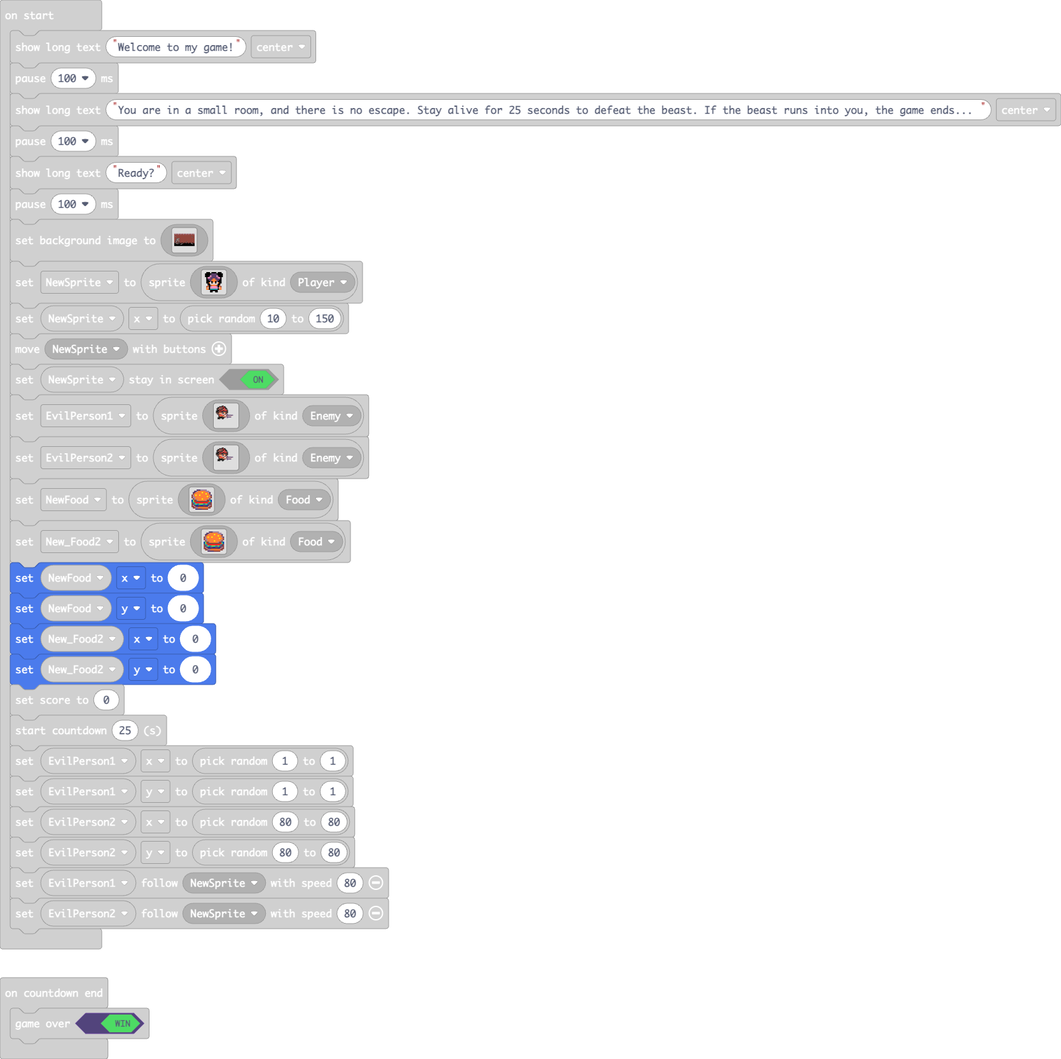
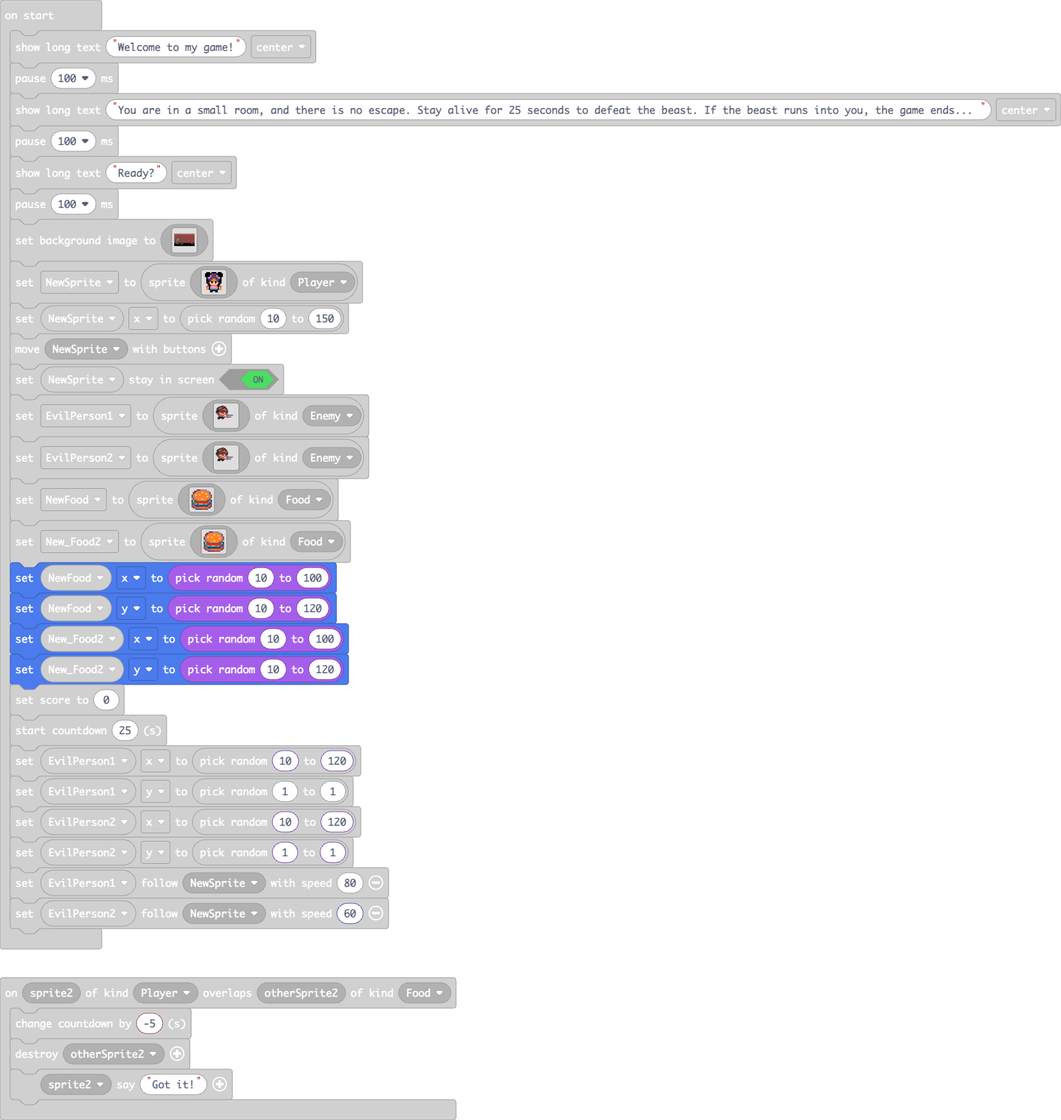
Update pxt.json, main.blocks, main.ts, main.py

Changed region(s): [[0.0, 0.0312, 1.0, 1.0]]

diff --git a/main.ts b/main.ts
@@ -1,13 +1,13 @@
-sprites.onOverlap(SpriteKind.Enemy, SpriteKind.Player, function (sprite2, otherSprite2) {
+sprites.onOverlap(SpriteKind.Enemy, SpriteKind.Player, function on_on_overlap(sprite2: Sprite, otherSprite2: Sprite) {
     game.gameOver(false)
 })
-info.onCountdownEnd(function () {
+info.onCountdownEnd(function on_countdown_end() {
     game.gameOver(true)
 })
-sprites.onOverlap(SpriteKind.Player, SpriteKind.Food, function (sprite2, otherSprite2) {
-    info.changeCountdownBy(-10)
-    sprites.destroy(otherSprite2)
-    sprite2.sayText("Got it!")
+sprites.onOverlap(SpriteKind.Player, SpriteKind.Food, function on_on_overlap2(sprite22: Sprite, otherSprite22: Sprite) {
+    info.changeCountdownBy(-5)
+    sprites.destroy(otherSprite22)
+    sprite22.sayText("Got it!")
 })
 game.showLongText("Welcome to my game!", DialogLayout.Center)
 pause(100)
@@ -17,117 +17,127 @@ game.showLongText("Ready?", DialogLayout.Center)
 pause(100)
 scene.setBackgroundImage(img`
     beeeeebbbbbbbbbbbebbbeeeebbbbbbbbbebbbbbbbeeeeebbbbbbbbbbbebbbeeeeebbbbbbbbebbbbbbbeeeeebbbbbbbbbbbbebbbeeeebbbbbbbbebbbbbbbeeeeebbbbbbbbbbbbebbbeeeebbbbbbbbebb
-    eeebeeeebbbbeebbbbbeeeeeeeebbeeebbbbbebbeeeebeeeebbbbeebbbbbeeeeeeeeebbeebbbbbebbeeeebeeeebbbbeebbbbbbeeeeeeeebbeebbbbbebbeeeebeeeeebbbbeebbbbbeeeeeeeebbeebbbbb
-    eeeeeeeeebbbeebbbbeebeeeeeeebeeebbbbbbbeeeeeeeeeeebbbeebbbbeebeeeeeeeebeebbbbbbbeeeeeeeeeeebbbeebbbbbeebeeeeeeebeebbbbbbbeeeeeeeeeeeebbbeebbbbeebeeeeeeebeebbbbb
-    beeeeeeeeebbbbbbbeeeeeeeeeeeebbbbbbbbbeebbeeeeeeeeebbbbbbbeeeeeeeeeeeeebbbbbbbbeebbeeeeeeeeebbbbbbbbeeeeeeeeeeeebbbbbbbbeebbeeeeeeeeeebbbbbbbeeeeeeeeeeeebbbbbbb
-    beeeeeeeeeeebbbeeeeeeeeeebbeeeeebbbbeeeebbeeeeeeeeeeebbbeeeeeeeeeeebbeeeebbbbeeeebbeeeeeeeeeeebbbbeeeeeeeeeebbeeeebbbbeeeebbeeeeeeeeeeeebbbeeeeeeeeeebbeeeebbbbe
-    eeeeeeeeeeeeeeeeeeeeeeeeebbeeeeeeeeeeeeeeeeeeeeeeeeeeeeeeeeeeeeeeeebbeeeeeeeeeeeeeeeeeeeeeeeeeeeeeeeeeeeeeeebbeeeeeeeeeeeeeeeeeeeeeeeeeeeeeeeeeeeeeeebbeeeeeeeee
-    eeeeeeeebbeeeeeebbeeeeeeeeeeebeeeeeeebeeeeeeeeeeebbeeeeeebbeeeeeeeeeeeebeeeeeebeeeeeeeeeeebbeeeeeeebbeeeeeeeeeeebeeeeeebeeeeeeeeeeeebbeeeeeebbeeeeeeeeeeebeeeeee
-    eeeeeeeebbeeeeeebbeeeeeeeeeeeeeeebbeeeeeeeeeeeeeebbeeeeeebbeeeeeeeeeeeeeeebbeeeeeeeeeeeeeebbeeeeeeebbeeeeeeeeeeeeeebbeeeeeeeeeeeeeeebbeeeeeebbeeeeeeeeeeeeeebbee
-    eeeeeeeeeeeebeeeeeeeeeeeeeeeeeeeebbeeeeeeeeeeeeeeeeeebeeeeeeeeeeeeeeeeeeeebbeeeeeeeeeeeeeeeeeebeeeeeeeeeeeeeeeeeeeebbeeeeeeeeeeeeeeeeeeebeeeeeeeeeeeeeeeeeeebbee
-    eeeeeeeeeeeeeeeeeeeeeeeeeeeeeeeeeeeeeeeeeeeeeeeeeeeeeeeeeeeeeeeeeeeeeeeeeeeeeeeeeeeeeeeeeeeeeeeeeeeeeeeeeeeeeeeeeeeeeeeeeeeeeeeeeeeeeeeeeeeeeeeeeeeeeeeeeeeeeeee
-    eeeeeeeeeeeeeeeeeeeeeeeeeeeeeeeeeeeeeeeeeeeeeeeeeeeeeeeeeeeeeeeeeeeeeeeeeeeeeeeeeeeeeeeeeeeeeeeeeeeeeeeeeeeeeeeeeeeeeeeeeeeeeeeeeeeeeeeeeeeeeeeeeeeeeeeeeeeeeeee
-    eeeeeeeeeeeeeeeeeeeeeeeeeeeeeeeeeeeeeeeeeeeeeeeeeeeeeeeeeeeeeeeeeeeeeeeeeeeeeeeeeeeeeeeeeeeeeeeeeeeeeeeeeeeeeeeeeeeeeeeeeeeeeeeeeeeeeeeeeeeeeeeeeeeeeeeeeeeeeeee
-    eeeeeeeeeeeeeeeeeeeeeeeeeeeeeeeeeeeeeeeeeeeeeeeeeeeeeeeeeeeeeeeeeeeeeeeeeeeeeeeeeeeeeeeeeeeeeeeeeeeeeeeeeeeeeeeeeeeeeeeeeeeeeeeeeeeeeeeeeeeeeeeeeeeeeeeeeeeeeeee
-    eeeeeeeeeeeeeeeeeeeeeeeeeeeeeeeeeeeeeeeeeeeeeeeeeeeeeeeeeeeeeeeeeeeeeeeeeeeeeeeeeeeeeeeeeeeeeeeeeeeeeeeeeeeeeeeeeeeeeeeeeeeeeeeeeeeeeeeeeeeeeeeeeeeeeeeeeeeeeeee
-    eeeeeeeeeeeeeeeeeeeeeeeeeeeeeeeeeeeeeeeeeeeeeeeeeeeeeeeeeeeeeeeeeeeeeeeeeeeeeeeeeeeeeeeeeeeeeeeeeeeeeeeeeeeeeeeeeeeeeeeeeeeeeeeeeeeeeeeeeeeeeeeeeeeeeeeeeeeeeeee
-    eeeeeeeeffffeeeeeeeeeeeeeeeeeeeeeeeeeeeeeeeeeeeeeeeeeeeeeeeeeeeeeeeeeeeeeeeeeeeeeeeeeeeeeeeeeeeeeeeeeeeeeeeeeeeeeeeeeeeeeeeeeeeeeeeeeeeeeeeeeeeeeeeeeeeeeeeeeeee
-    eeeeeeeefdbfeeeeeeeeeeeeeeeeeeeeeeeeeeeeeeeeeeeeeeeeeeeeeeeeeeeeeeeeeeeeeeeeeeeeeeeeeeeeeeeeeeeeeeeeeeeeeeeeeeeeeeeeeeeeeeeeeeeeeeeeeeeeeeffffeeeeeeeeeeeeeeeeee
-    eeeeeeeefdbfeeeeeeeeeeeeeeeeeeeeeeeeeeeeeeeeeeeeeeeeeeeeeeeeeeeeeeeeeeeeeeeeeeeeeeeeeeeeeeeeeeeeeeeeeeeeeeeeeeeeeeeeeeeeeeeeeeeeeeeeeeeeeeffffeeeeeeeeeeeeeeeeee
-    eeeeeeffbddfeeeeeeeeeeeeeeeeeeeeeeeeeeeeeeeeeeeeeeeeeeeeeeeeeeeeeeeeeeeeeeeeeeeeeeeeeeeeeeeeeeeeeeeeeeeeeeeeeeeeeeeeeeeeeeeeeeeeeeeeeeeeeefdbfeeeeeeeeeeeeeeeeee
-    eeeeeefddddfeeeeeeeeeeeeeeeeeeeeeeeeeeeeeeeeeeeeeeeeeeeeeeeeeeeeeeeeeeeeeeeeeeeeeeeeeeeeeeeeeeeeeeeeeeeeeeeeeeeeeeeeeeeeeeeeeeeeeeeeeeeeffbddfeeeeeeeeeeeeeeeeee
-    eeeeeefbdddffeeeeeeeeeeeeeeeeeeeeeeeeeeeeeeeeeeeeeeeeeeeeeeeeeeeeeeeeeeeeeeeeeeeeeeeeeeeeeeeeeeeeeeeeeeeeeeeeeeeeeeeeeeeeeeeeeeeeeeeeeeefddddffeeeeeeeeeeeeeeeee
-    eeeeeeffffbdffeeeeeeeeeeeeeeeeeeeeeeeeeeeeeeeeeeeeeeeeeeeeeeeeeeeeeeeeeeeeeeeeeeeeeeeeeeeeeeeeeeeeeeeeeeeeeeeeeeeeeeeeeeeeeeeeeeeeeeeeeefbdddbffeeeeeeeeeeeeeeee
-    eeeeeeeeeffddfffffeeeeeeeeeeeeeeeeeeeeeeeeeeeeeeeeeeeeeeeeeeeeeeeeeeeeeeeeeeeeeeeeeeeeeeeeeeeeeeeeeeeeeeeeeeeeeeeeeeeeeeeeeeeeeeeeeeeeeefffffddffeeeeeeeeeeeeeee
-    eeeeeeeeeeffbdddbfeeeeeeeeeeeeeeeeeeeeeeeeeeeeeeeeeeeeeeeeeeeeeeeeeeeeeeeeeeeeeeeeeeeeeeeeeeeeeeeeeeeeeeeeeeeeeeeeeeeeeeeeeeeeeeeeeeeeeeeeeeffddffeeeeeeeeeeeeee
-    eeeeeeeeeeeffddddfeeeeeeeeeeeeeeeeeeeeeeeeeeeeeeeeeeeeeeeeeeeeeeeeeeeeeeeeeeeeeeeeeeeeeeeeeeeeeeeeeeeeeeeeeeeeeeeeeeeeeeeeeeeeeeeeeeeeeeeeeeeffddffeeeeeeeeeeeee
-    eeeeeeeeeeeefddbffeeeeeeeeeeeeeeeeeeeeeeeeeeeeeeeeeeeeeeeeeeeeeeeeeeeeeeeeeeeeeeeeeeeeeeeeeeeeeeeeeeeeeeeeeeeeeeeeeeeeeeeeeeeeeeeeeeeeeeeeeeeeffdbffffeeeeeeeeee
-    eeeeeeeeeeeefbdfeeeeeeeeeeeeeeeeeeeeeeeeeeeeeeeeeeeeeeeeeeeeeeeeeeeeeeeeeeeeeeeeeeeeeeeeeeeeeeeeeeeeeeeeeeeeeeeeeeeeeeeeeeeeeeeeeeeeeeeeeeeeeeeffdddbfeeeeeeeeee
-    eeeeeeeeeeeeffffeeeeeeeeeeeeeeeeeeeeeeeeeeeeeeeeeeeeeeeeeeeeeeeeeeeeeeeeeeeeeeeeeeeeeeeeeeeeeeeeeeeeeeeeeeeeeeeeeeeeeeeeeeeeeeeeeeeeeeeeeeeeeeeefddddfeeeeeeeeee
-    eeeeeeeeeeeeeeeeeeeeeeeeeeeeeeeeeeeeeeeeeeeeeeeeeeeeeeeeeeeeeeeeeeeeeeeeeeeeeeeeeeeeeeeeeeeeeeeeeeeeeeeeeeeeeeeeeeeeeeeeeeeeeeeeeeeeeeeeeeeeeeeefddbffeeeeeeeeee
-    eeeeeeeeeeeeeeeeeeeeeeeeeeeeeeeeeeeeeeeeeeeeeeeeeeeeeeeeeeeeeeeeeeeeeeeeeeeeeeeeeeeeeeeeeeeeeeeeeeeeeeeeeeeeeeeeeeeeeeeeeeeeeeeeeeeeeeeeeeeeeeeefbdfeeeeeeeeeeee
-    eeeeeeeeeeeeeeeeeeeeeeeeeeeeeeeeeeeeeeeeeeeeeeeeeeeeeeeeeeeeeeeeeeeeeeeeeeeeeeeeeeeeeeeeeeeeeeeeeeeeeeeeeeeeeeeeeeeeeeeeeeeeeeeeeeeeeeeeeeeeeeeeffffeeeeeeeeeeee
-    eeeeeeeeeeeeeeeeeeeeeeeeeeeeeeeeeeeeeeeeeeeeeeeeeeeeeeeeeeeeeeeeeeeeeeeeeeeeeeeeeeeeeeeeeeeeeeeeeeeeeeeeeeeeeeeeeeeeeeeeeeeeeeeeeeeeeeeeeeeeeeeeeeeeeeeeeeeeeeee
-    eeeeeeeeeeeeeeeeeeeeeeeeeeeeeeeeeeeeeeeeeeeeeeeeeeeeeeeeeeeeeeeeeeeeeeeeeeeeeeeeeeeeeeeeeeeeeeeeeeeeeeeeeeeeeeeeeeeeeeeeeeeeeeeeeeeeeeeeeeeeeeeeeeeeeeeeeeeeeeee
-    eeeeeeeeeeeeeeeeeeeeeeeeeeeeeeeeeeeefffffffeeeeeeeeeeeeeeeeeeeeeeeeeeeeeeeeeeeeeeeeeeeeeeeeeeeeeeeeeeeeeeeeeeeeeeeeeeeeeeeeeeeeeeeeeeeeeeeeeeeeeeeeeeeeeeeeeeeee
-    eeeeeeeeeeeeeeeeeeeeeeeefffffffffffffddddddffeeeeeeeeeeeeeeeeeeeeeeeeeeeeeeeeeeeeeeeeeeeeeeeeeeeeeeeeeeeeeeeeeeeeeeeeeeeeeeeeeeeeeeeeeeeeeeeeeeeeeeeeeeeeeeeeeee
-    eeeeeeeeeeeeeeeeeeeeeefffdddddddddddddffddddfeeeeeeeeeeeeeeeeeeeeeeeeeeeeeeeeeeeeeeeeeeeeeeeeeeeeeeeeeeeeeeeeeeeeeeeeeeeeeeeeeeeeeeeeeeeeeeeeeeeeeeeeeeeeeeeeeee
-    eeeeeeeeeeeeeeeeeeeeeefffdddddddddddddffddddfeeeeeeeeeeeeeeeeeeeeeeeeeeeeeeeeeeeeeeeeeeeeeeeeeeeeeeeeeeeeeeeeeeeeeeeeeeeeeeeeeeeeeeeeeeeeeeeeeeeeeeeeeeeeeeeeeee
-    eeeeeeeeeeeeeeeeeeeeeffdddddddddffffdddffdddfeeeeeeeeeeeeeeeeeeeeeeeeeeeeeeeeeeeeeeeeeeeeeeeeeeeeeeeeeeeeeeeeeeeeeeeeeeeeeeeeeeeeeeeeeeeeeeeeeeeeeeeeeeeeeeeeeee
-    eeeeeeeeeeeeeeeeeeeeffdddfffddffffffdddddddffeeeeeeeeeeeeeeeeeeeeeeeeeeeeeeeeeeeeeeeeeeeeeeeeeeeeeeeeeeeeeeeeeeeeeeeeeeeeeeeeeeeeeeeeeeeeeeeeeeeeeeeeeeeeeeeeeee
-    eeeeeeeeeeeeeeeeeeeffdddfffffdfffffddddddbdfeeeeeeeeeeeeeeeeeeeeeeeeeeeeeeeeeeeeeeeeeeeeeeeeeeeeeeeeeeeeeeeeeeeeeeeeeeeeeeeeeeeeeeeeeeeeeeeeeeeeeeeeeeeeeeeeeeee
-    eeeeeeeeeeeeeeeeeeffdddffffffdddddddddbfdfdfeeeeeeeeeeeeeeeeeeeeeeeeeeeeeeeeeeeeeeeeeeeeeeeeeeeeeeeeeeeeeeeeeeeeeeeeeeeeeeeeeeeeeeeeeeeeeeeeeeeeeeeeeeeeeeeeeeee
-    eeeeeeeeeeeeeeeeeefddddfffffddddddddfdffdfdfeeeeeeeeeeeeeeeeeeeeeeeeeeeeeeeeeeeeeeeeeeeeeeeeeeeeeeeeeeeeeeeeeeeeeeeeeeeeeeeeeeeeeeeeeeeeeeeeeeeeeeeeeeeeeeeeeeee
-    eeeeeeeeeeeeeeeeeefdddddfffdddddfffdffffffffeeeeeeeeeeeeeeeeeeeeeeeeeeeeeeeeeeeeeeeeeeeeeeeeeeeeeeeeeeeeeeeeeeeeeeeeeeeeeeeeeeeeeeeeeeeeeeeeeeeeeeeeeeeeeeeeeeee
-    eeeeeeeeeeeeeeeeeefdddddddddfffffefffeeeeeeeeeeeeeeeeeeeeeeeeeeeeeeeeeeeeeeeeeeeeeeeeeeeeeeeeeeeeeeeeeeeeeeeeeeeeeeeeeeeeeeeeeeeeeeeeeeeeeeeeeeeeeeeeeeeeeeeeeee
-    eeeeeeeeeeeeeeeeeeffdddbbbbffeeeeeeeeeeeeeeeeeeeeeeeeeeeeeeeeeeeeeeeeeeeeeeeeeeeeeeeeeeeeeeeeeeeeeeeeeeeeeeeeeeeeeeeeeeeeeeeeeeeeeeeeeeeeeeeeeeeeeeeeeeeeeeeeeee
-    eeeeeeeeeeeeeeeefffffbddddbbfffffeeeeeeeeeeeeeeeeeeeeeeeeeeeeeeeeeeeeeeeeeeeeeeeeeeeeeeeeeeeeeeeeeeeeeeeeeeeeeeeeeeeeeeeeeeeeeeeeeeeeeeeeeeeeeeeeeeeeeeeeeeeeeee
-    eeeeeeeeeeeeeeeefdffefddddddddddffffffffffffeeeeeeeeeeeeeeeeeeeeeeeeeeeeeeeeeeeeeeeeeeeeeeeeeeeeeeeeeeeeeeeeeeeeeeeeeeeeeeeeeeeeeeeeeeeeeeeeeeeeeeeeeeeeeeeeeeee
-    eeeeeeeeeeeeeeeefddfffdddddddddddffddddfdfdfeeeeeeeeeeeeeeeeeeeeeeeeeeeeeeeeeeeeeeeeeeeeeeeeeeeeeeeeeeeeeeeeeeeeeeeeeeeeeeeeeeeeeeeeeeeeeeeeeeeeeeeeeeeeeeeeeeee
-    eeeeeeeeeeeeeefffbbdfffddddddddddddddddbdbdfeeeeeeeeeeeeeeeeeeeeeeeeeeeeeeeeeeeeeeeeeeeeeeeeeeeeeeeeeeeeeeeeeeeeeeeeeeeeeeeeeeeeeeeeeeeeeeeeeeeeeeeeeeeeeeeeeeee
-    eeeeeeeeeeeefffddfffffeffdddddddddddddddddffeeeeeeeeeeeeeeeeeeeeeeeeeeeeeeeeeeeeeeeeeeeeeeeeeeeeeeeeeeeeeeeeeeeeeeeeeeeeeeeeeeeeeeeeeeeeeeeeeeeeeeeeeeeeeeeeeeee
-    eeeeeeeeeeeefdbbdddfbfeeffffdddddddffffffffeeeeeeeeeeeeeeeeeeeeeeeeeeeeeeeeeeeeeeeeeeeeeeeeeeeeeeeeeeeeeeeeeeeeeeeeeeeeeeeeeeeeeeeeeeeeeeeeeeeeeeeeeeeeeeeeeeeee
-    eeeeeeeeeeeefddbbfffdfeeeeefffffffffeeeeeeeeeeeeeeeeeeeeeeeeeeeeeeeeeeeeeeeeeeeeeeeeeeeeeeeeeeeeeeeeeeeeeeeeeeeeeeeeeeeeeeeeeeeeeeeeeeeeeeeeeeeeeeeeeeeeeeeeeeee
-    eeeeeeeeeeffffdddfefdffeeeeeeeeeeeeeeeeeeeeeeeeeeeeeeeeeeeeeeeeeeeeeeeeeeeeeeeeeeeeeeeeeeeeeeeeeeeeeeeeeeeeeeeeeeeeeeeeeeeeeeeeeeeeeeeeeeeeeeeeeeeeeeeeeeeeeeeee
-    eeeeeeeeeefbbfffffffddffeeeefffffeeeeefffffeeeeeeeeeeeeeeeeeeeeeeeeeeeeeeeeeeeeeeeeeeeeeeeeeeeeeeeeeeeeeeeeeeeeeeeeeeeeeeeeeeeeeeeeeeeeeeeeeeeeeeeeeeeeeeeeeeeee
-    eeeeeeeeeeffbbbfffdbdddffffefdddbfffffbdddffeeeeeeeeeeeeeeeeeeeeeeeeeeeeeeeeeeeeeeeeeeeeeeeeeeeeeeeeeeeeeeeeeeeeeeeeeeeeeeeeeeeeeeeeeeeeeeeeeeeeeeeeeeeeeeeeeeee
-    eeeeeeeeeeefffffdfdbbdddddfefddddddddbbbbddfeeeeeeeeeeeeeeeeeeeeeeeeeeeeeeeeeeeeeeeeeeeeeeeeeeeeeeeeeeeeeeeeeeeeeeeeeeeeeeeeeeeeeeeeeeeeeeeeeeeeeeeeeeeeeeeeeeee
-    eeeeeeeeeeefffffdfdbbdddddfefddddddddbbbbddfeeeeeeeeeeeeeeeeeeeeeeeeeeeeeeeeeeeeeeeeeeeeeeeeeeeeeeeeeeeeeeeeeeeeeeeeeeeeeeeeeeeeeeeeeeeeeeeeeeeeeeeeeeeeeeeeeeee
-    eeeeeeeeeeffbbbfdbddbbbffffeffffffdddbddbfdfeeeeeeeeeeeeeeeeeeeeeeeeeeeeeeeeeeeeeeeeeeeeeeeeeeeeeeeeeffffeeeeeeeeeeeeeeeeeeeeeeeeeeeeeeeeeeeeeeeeeeeeeeeeeeeeeee
-    eeeeeeeeeefbbfffdbbdddffffffeeeeeffffbbbdfffeeeeeeeeeeeeeeeeeeeeeeeeeeeeeeeeeeeeeeeeeeeeeeeeeeeeeeeeefbdfeeeeeeeeeeeeeeeeeeeeeeeeeeeeeeeeeeeeeeeeeeeeeeeeeeeeeee
-    eeeeeeeeeefffffbddbbdddddddfeeeeeeeeffdbdfeeeeeeeeeeeeeeeeeeeeeeeeeeeeeeeeeeeeeeeeeeeeeeeeeeeeeeeeeeefddbffeeeeeeeeeeeeeeeeeeeeeeeeeeeeeeeeeeeeeeeeeeeeeeeeeeeee
-    eeeeeeeeeefbbfdbbddbbfffffffeeeeeeeffddfdfeeeeeeeeeeeeeeeeeeeeeeeeeeeeeeeeeeeeeeeeeeeeeeeeeeeeeeeeeeffddddfeeeeeeeeeeeeeeeeeeeeeeeeeeeeeeeeeeeeeeeeeeeeeeeeeeeee
-    eeeeeeeeeefbffdbbbdddddddfeeeeeeeeefddffffeeeeeeeeeeeeeeeeeeeeeeeeeeeeeeeeeeeeeeeeeeeeeeeeeeeeeeeeeffbdddbfeeeeeeeeeeeeeeeeeeeeeeeeeeeeeeeeeeeeeeeeeeeeeeeeeeeee
-    eeeeeeeeeeffffdddbbfffffffeeeeeeeeeffffffffffeeeeeeeeeeeeeeeeeeeeeeeeeeeeeeeeeeeeeeeeeeeeeeeeeeeeeffddfffffeeeeeeeeeeeeeeeeeeeeeeeeeeeeeeeeeeeeeeeeeeeeeeeeeeeee
-    eeeeeeeeeeffdffdddfeeeeeeeeeeeeeeeeeeeffdffdfeeeeeeeeeeeeeeeeeeeeeeeeeeeeeeeeeeeeeeeeeeeeeeeeeeefffddffeeeeeeeeeeeeeeeeeeeeeeeeeeeeeeeeeeeeeeeeeeeeeeeeeeeeeeeee
-    eeeeeeeeeffddffffffeeeeeeeeeeeeeeeeeeefddffdffeeeeeeeeeeeeeeeeeeeeeeeeeeeeeeeeeeeeeeeeeeeeeeeeefffddffeeeeeeeeeeeeeeeeeeeeeeeeeeeeeeeeeeeeeeeeeeeeeeeeeeeeeeeeee
-    eeeeeeeeefddbffffeeeeeeeeeeffffffffeeffddffdbfeeeeeeeeeeeeeeeeeeeeeeeeeeeeeeeeeeeeeeeeeeeeeeffffbbdffeeeeeeeeeeeeeeeeeeeeeeeeeeeeeeeeeeeeeeeeeeeeeeeeeeeeeeeeeee
-    eeeeeeeeeffbbfddfeeeeeeeeeefddbbbdffefddfffddfeeeeeeeeeeeeeeeeeeeeeeeeeeeeeeeeeeeeeeeeeeeeeefbddddffeeeeeeeeeeeeeeeeeeeeeeeeeeeeeeeeeeeeeeeeeeeeeeeeeeeeeeeeeeee
-    feeeeeeeeefdddbbffeeeeeeeeffddbbdddfefdffffbdfeeeeeeeeeeeeeeeeeeeeeeeeeeeeeeeeeeeefeeeeeeeeefdddddfeeeeeeeeeeeeeeeeeeeeeeeefeeeeeeeeeeeeeeeeeeeeeeeeeeeeeeeeeeee
-    eeeeeeeefefffbbddfeeeeeeeefddffffddfffffeffbffeeefeeeeeeeeeeeeeeeeeeefeeeeeeeeeeeeeeeeeeeefeffbdddfeeeeeeeeeeefeeeeeeeeeeeeeeeeeeeeefeeeeeeeeeeeeeeeeeefeeeeeeee
-    efffffeeeeeefdddbffeeffffffddfeeffddfffeefdbfffeeeeeeeeeeefeeefffffeeeeeeeefeeeeeeefffffeeeeeefdbbfefeeeffffeeeeeeeefeeeeeeefffffeeeeeefffffefeeeffffeeeeeeeefee
-    fffeffffeeeefdfbbdfffffffbddffffeffdffeeffddfffffeeeeffeeeeefffffffffeeffeeeeefeeffffeffffeeeefffffeeeffffffffeeffeeeeefeeffffefffffeeefbdbfeeeffffffffeeffeeeee
-    fffffffffeeefffbdbffddddffbdffffeefffeefffbdffffffeeeffeeeeffeffffffffeffeeeeeeefffffffffffeeeffeeeeeffefffffffeffeeeeeeefffffffffffffffdddfeeffefffffffeffeeeee
-    efffffffffeeeefddffbdffddfbbfeeeeeeeeefffdbbfffffffeeeeeeefffffffffffffeeeeeeeeffeefffffffffeeeeeeeeffffffffffffeeeeeeeeffeeffffffffffbdddbffffffffffffffeeeeeee
-    efffffffffffeefffffddfffdeffffffeeeeffffbddffffffffffeeefffffffffffeeffffeeeeffffeefffffffffffeeeeffffffffffeeffffeeeeffffeeffffffffffddddddbffffffffeeffffeeeef
-    fffffffffffffffffffdddffdddffffffffffffdbbdfffffffffffffffffffbddbfeefffffffffffffffffffffffffffffffffffffffeeffffffffffffffffffffffffbddbddddbfffffffefffffffff
-    fffffffffffffffffffdddffdddffffffffffffdbbdfffffffffffffffffffbddbfeefffffffffffffffffffffffffffffffffffffffeeffffffffffffffffffffffffbddbddddbfffffffefffffffff
-    ffffffffeeffffffeefffddddddfffffffffdbddfffffffffeeffffffeefffddddfffffeffffffefffffffffffeefffffffeefffffffffffeffffffeffffffffffffeffffffbddddbbddbffffeffffff
-    ffffffffeeffffffeefffddddddfffdddbbddbdffffffffffeeffffffeefffbddddbffffffeeffffffffffffffeefffffffeeffffffffffffffeefffffffffffffffeefffffffbdddddddfffffffeeff
-    ffffffffffffefffffffffdddddffdddfbddfffffffffffffffffeffffffbdddddddffffffeeffffffffffffffffffeffffffffffffffffffffeefffffffffffffffffffefffffffdddddfffffffeeff
-    fffffffffffffffffffffffdddffffffffffffffffffffffffffffffffbddddbbddbffffffffffffffffffffffffffffffffffffffffffffffffffffffffffffffffffffffffffffdddbffffffffffff
-    ffffffffffffffffffffffffffffffffffffffffffffffffffffbddbbddddbffffffffffffffffffffffffffffffffffffffffffffffffffffffffffffffffffffffffffffffffffbddfffffffffffff
-    ffffffffffffffffffffffffffffffffffffffffffffffffffffdddddddbffffffffffffffffffffffffffffffffffffffffffffffffffffffffffffffffffffffffffffffffffffffffffffffffffff
-    ffffffffffffffffffffffffffffffffffffffffffffffffffffdddddfffffffffffffffffffffffffffffffffffffffffffffffffffffffffffffffffffffffffffffffffffffffffffffffffffffff
-    fffffffffffffffffffffffffffffffffffffffffffffffffffffbdddfffffffffffffffffffffffffffffffffffffffffffffffffffffffffffffffffffffffffffffffffffffffffffffffffffffff
-    ffffffffffffffffffffffffffffffffffffffffffffffffffffffddbfffffffffffffffffffffffffffffffffffffffffffffffffffffffffffffffffffffffffffffffffffffffffffffffffffffff
-    ffffffffffffffffffffffffffffffffffffffffffffffffffffffffffffffffffffffffffffffffffffffffffffffffffffffffffffffffffffffffffffffffffffffffffffffffffffffffffffffff
-    ffffffffffffffffffffffffffffffffffffffffffffffffffffffffffffffffffffffffffffffffffffffffffffffffffffffffffffffffffffffffffffffffffffffffffffffffffffffffffffffff
-    ffffffffffffffffffffffffffffffffffffffffffffffffffffffffffffffffffffffffffffffffffffffffffffffffffffffffffffffffffffffffffffffffffffffffffffffffffffffffffffffff
-    ffffffffffffffffffffffffffffffffffffffffffffffffffffffffffffffffffffffffffffffffffffffffffffffffffffffffffffffffffffffffffffffffffffffffffffffffffffffffffffffff
-    ffffffffffffffffffffffffffffffffffffffffffffffffffffffffffffffffffffffffffffffffffffffffffffffffffffffffffffffffffffffffffffffffffffffffffffffffffffffffffffffff
-    ffffffffffffffffffffffffffffffffffffffffffffffffffffffffffffffffffffffffffffffffffffffffffffffffffffffffffffffffffffffffffffffffffffffffffffffffffffffffffffffff
-    ffffffffffffffffffffffffffffffffffffffffffffffffffffffffffffffffffffffffffffffffffffffffffffffffffffffffffffffffffffffffffffffffffffffffffffffffffffffffffffffff
-    ffffffffffffffffffffffffffffffffffffffffffffffffffffffffffffffffffffffffffffffffffffffffffffffffffffffffffffffffffffffffffffffffffffffffffffffffffffffffffffffff
-    ffffffffffffffffffffffffffffffffffffffffffffffffffffffffffffffffffffffffffffffffffffffffffffffffffffffffffffffffffffffffffffffffffffffffffffffffffffffffffffffff
-    `)
-let NewSprite = sprites.create(assets.image`Hero`, SpriteKind.Player)
+        eeebeeeebbbbeebbbbbeeeeeeeebbeeebbbbbebbeeeebeeeebbbbeebbbbbeeeeeeeeebbeebbbbbebbeeeebeeeebbbbeebbbbbbeeeeeeeebbeebbbbbebbeeeebeeeeebbbbeebbbbbeeeeeeeebbeebbbbb
+        eeeeeeeeebbbeebbbbeebeeeeeeebeeebbbbbbbeeeeeeeeeeebbbeebbbbeebeeeeeeeebeebbbbbbbeeeeeeeeeeebbbeebbbbbeebeeeeeeebeebbbbbbbeeeeeeeeeeeebbbeebbbbeebeeeeeeebeebbbbb
+        beeeeeeeeebbbbbbbeeeeeeeeeeeebbbbbbbbbeebbeeeeeeeeebbbbbbbeeeeeeeeeeeeebbbbbbbbeebbeeeeeeeeebbbbbbbbeeeeeeeeeeeebbbbbbbbeebbeeeeeeeeeebbbbbbbeeeeeeeeeeeebbbbbbb
+        beeeeeeeeeeebbbeeeeeeeeeebbeeeeebbbbeeeebbeeeeeeeeeeebbbeeeeeeeeeeebbeeeebbbbeeeebbeeeeeeeeeeebbbbeeeeeeeeeebbeeeebbbbeeeebbeeeeeeeeeeeebbbeeeeeeeeeebbeeeebbbbe
+        eeeeeeeeeeeeeeeeeeeeeeeeebbeeeeeeeeeeeeeeeeeeeeeeeeeeeeeeeeeeeeeeeebbeeeeeeeeeeeeeeeeeeeeeeeeeeeeeeeeeeeeeeebbeeeeeeeeeeeeeeeeeeeeeeeeeeeeeeeeeeeeeeebbeeeeeeeee
+        eeeeeeeebbeeeeeebbeeeeeeeeeeebeeeeeeebeeeeeeeeeeebbeeeeeebbeeeeeeeeeeeebeeeeeebeeeeeeeeeeebbeeeeeeebbeeeeeeeeeeebeeeeeebeeeeeeeeeeeebbeeeeeebbeeeeeeeeeeebeeeeee
+        eeeeeeeebbeeeeeebbeeeeeeeeeeeeeeebbeeeeeeeeeeeeeebbeeeeeebbeeeeeeeeeeeeeeebbeeeeeeeeeeeeeebbeeeeeeebbeeeeeeeeeeeeeebbeeeeeeeeeeeeeeebbeeeeeebbeeeeeeeeeeeeeebbee
+        eeeeeeeeeeeebeeeeeeeeeeeeeeeeeeeebbeeeeeeeeeeeeeeeeeebeeeeeeeeeeeeeeeeeeeebbeeeeeeeeeeeeeeeeeebeeeeeeeeeeeeeeeeeeeebbeeeeeeeeeeeeeeeeeeebeeeeeeeeeeeeeeeeeeebbee
+        eeeeeeeeeeeeeeeeeeeeeeeeeeeeeeeeeeeeeeeeeeeeeeeeeeeeeeeeeeeeeeeeeeeeeeeeeeeeeeeeeeeeeeeeeeeeeeeeeeeeeeeeeeeeeeeeeeeeeeeeeeeeeeeeeeeeeeeeeeeeeeeeeeeeeeeeeeeeeeee
+        eeeeeeeeeeeeeeeeeeeeeeeeeeeeeeeeeeeeeeeeeeeeeeeeeeeeeeeeeeeeeeeeeeeeeeeeeeeeeeeeeeeeeeeeeeeeeeeeeeeeeeeeeeeeeeeeeeeeeeeeeeeeeeeeeeeeeeeeeeeeeeeeeeeeeeeeeeeeeeee
+        eeeeeeeeeeeeeeeeeeeeeeeeeeeeeeeeeeeeeeeeeeeeeeeeeeeeeeeeeeeeeeeeeeeeeeeeeeeeeeeeeeeeeeeeeeeeeeeeeeeeeeeeeeeeeeeeeeeeeeeeeeeeeeeeeeeeeeeeeeeeeeeeeeeeeeeeeeeeeeee
+        eeeeeeeeeeeeeeeeeeeeeeeeeeeeeeeeeeeeeeeeeeeeeeeeeeeeeeeeeeeeeeeeeeeeeeeeeeeeeeeeeeeeeeeeeeeeeeeeeeeeeeeeeeeeeeeeeeeeeeeeeeeeeeeeeeeeeeeeeeeeeeeeeeeeeeeeeeeeeeee
+        eeeeeeeeeeeeeeeeeeeeeeeeeeeeeeeeeeeeeeeeeeeeeeeeeeeeeeeeeeeeeeeeeeeeeeeeeeeeeeeeeeeeeeeeeeeeeeeeeeeeeeeeeeeeeeeeeeeeeeeeeeeeeeeeeeeeeeeeeeeeeeeeeeeeeeeeeeeeeeee
+        eeeeeeeeeeeeeeeeeeeeeeeeeeeeeeeeeeeeeeeeeeeeeeeeeeeeeeeeeeeeeeeeeeeeeeeeeeeeeeeeeeeeeeeeeeeeeeeeeeeeeeeeeeeeeeeeeeeeeeeeeeeeeeeeeeeeeeeeeeeeeeeeeeeeeeeeeeeeeeee
+        eeeeeeeeffffeeeeeeeeeeeeeeeeeeeeeeeeeeeeeeeeeeeeeeeeeeeeeeeeeeeeeeeeeeeeeeeeeeeeeeeeeeeeeeeeeeeeeeeeeeeeeeeeeeeeeeeeeeeeeeeeeeeeeeeeeeeeeeeeeeeeeeeeeeeeeeeeeeee
+        eeeeeeeefdbfeeeeeeeeeeeeeeeeeeeeeeeeeeeeeeeeeeeeeeeeeeeeeeeeeeeeeeeeeeeeeeeeeeeeeeeeeeeeeeeeeeeeeeeeeeeeeeeeeeeeeeeeeeeeeeeeeeeeeeeeeeeeeeffffeeeeeeeeeeeeeeeeee
+        eeeeeeeefdbfeeeeeeeeeeeeeeeeeeeeeeeeeeeeeeeeeeeeeeeeeeeeeeeeeeeeeeeeeeeeeeeeeeeeeeeeeeeeeeeeeeeeeeeeeeeeeeeeeeeeeeeeeeeeeeeeeeeeeeeeeeeeeeffffeeeeeeeeeeeeeeeeee
+        eeeeeeffbddfeeeeeeeeeeeeeeeeeeeeeeeeeeeeeeeeeeeeeeeeeeeeeeeeeeeeeeeeeeeeeeeeeeeeeeeeeeeeeeeeeeeeeeeeeeeeeeeeeeeeeeeeeeeeeeeeeeeeeeeeeeeeeefdbfeeeeeeeeeeeeeeeeee
+        eeeeeefddddfeeeeeeeeeeeeeeeeeeeeeeeeeeeeeeeeeeeeeeeeeeeeeeeeeeeeeeeeeeeeeeeeeeeeeeeeeeeeeeeeeeeeeeeeeeeeeeeeeeeeeeeeeeeeeeeeeeeeeeeeeeeeffbddfeeeeeeeeeeeeeeeeee
+        eeeeeefbdddffeeeeeeeeeeeeeeeeeeeeeeeeeeeeeeeeeeeeeeeeeeeeeeeeeeeeeeeeeeeeeeeeeeeeeeeeeeeeeeeeeeeeeeeeeeeeeeeeeeeeeeeeeeeeeeeeeeeeeeeeeeefddddffeeeeeeeeeeeeeeeee
+        eeeeeeffffbdffeeeeeeeeeeeeeeeeeeeeeeeeeeeeeeeeeeeeeeeeeeeeeeeeeeeeeeeeeeeeeeeeeeeeeeeeeeeeeeeeeeeeeeeeeeeeeeeeeeeeeeeeeeeeeeeeeeeeeeeeeefbdddbffeeeeeeeeeeeeeeee
+        eeeeeeeeeffddfffffeeeeeeeeeeeeeeeeeeeeeeeeeeeeeeeeeeeeeeeeeeeeeeeeeeeeeeeeeeeeeeeeeeeeeeeeeeeeeeeeeeeeeeeeeeeeeeeeeeeeeeeeeeeeeeeeeeeeeefffffddffeeeeeeeeeeeeeee
+        eeeeeeeeeeffbdddbfeeeeeeeeeeeeeeeeeeeeeeeeeeeeeeeeeeeeeeeeeeeeeeeeeeeeeeeeeeeeeeeeeeeeeeeeeeeeeeeeeeeeeeeeeeeeeeeeeeeeeeeeeeeeeeeeeeeeeeeeeeffddffeeeeeeeeeeeeee
+        eeeeeeeeeeeffddddfeeeeeeeeeeeeeeeeeeeeeeeeeeeeeeeeeeeeeeeeeeeeeeeeeeeeeeeeeeeeeeeeeeeeeeeeeeeeeeeeeeeeeeeeeeeeeeeeeeeeeeeeeeeeeeeeeeeeeeeeeeeffddffeeeeeeeeeeeee
+        eeeeeeeeeeeefddbffeeeeeeeeeeeeeeeeeeeeeeeeeeeeeeeeeeeeeeeeeeeeeeeeeeeeeeeeeeeeeeeeeeeeeeeeeeeeeeeeeeeeeeeeeeeeeeeeeeeeeeeeeeeeeeeeeeeeeeeeeeeeffdbffffeeeeeeeeee
+        eeeeeeeeeeeefbdfeeeeeeeeeeeeeeeeeeeeeeeeeeeeeeeeeeeeeeeeeeeeeeeeeeeeeeeeeeeeeeeeeeeeeeeeeeeeeeeeeeeeeeeeeeeeeeeeeeeeeeeeeeeeeeeeeeeeeeeeeeeeeeeffdddbfeeeeeeeeee
+        eeeeeeeeeeeeffffeeeeeeeeeeeeeeeeeeeeeeeeeeeeeeeeeeeeeeeeeeeeeeeeeeeeeeeeeeeeeeeeeeeeeeeeeeeeeeeeeeeeeeeeeeeeeeeeeeeeeeeeeeeeeeeeeeeeeeeeeeeeeeeefddddfeeeeeeeeee
+        eeeeeeeeeeeeeeeeeeeeeeeeeeeeeeeeeeeeeeeeeeeeeeeeeeeeeeeeeeeeeeeeeeeeeeeeeeeeeeeeeeeeeeeeeeeeeeeeeeeeeeeeeeeeeeeeeeeeeeeeeeeeeeeeeeeeeeeeeeeeeeeefddbffeeeeeeeeee
+        eeeeeeeeeeeeeeeeeeeeeeeeeeeeeeeeeeeeeeeeeeeeeeeeeeeeeeeeeeeeeeeeeeeeeeeeeeeeeeeeeeeeeeeeeeeeeeeeeeeeeeeeeeeeeeeeeeeeeeeeeeeeeeeeeeeeeeeeeeeeeeeefbdfeeeeeeeeeeee
+        eeeeeeeeeeeeeeeeeeeeeeeeeeeeeeeeeeeeeeeeeeeeeeeeeeeeeeeeeeeeeeeeeeeeeeeeeeeeeeeeeeeeeeeeeeeeeeeeeeeeeeeeeeeeeeeeeeeeeeeeeeeeeeeeeeeeeeeeeeeeeeeeffffeeeeeeeeeeee
+        eeeeeeeeeeeeeeeeeeeeeeeeeeeeeeeeeeeeeeeeeeeeeeeeeeeeeeeeeeeeeeeeeeeeeeeeeeeeeeeeeeeeeeeeeeeeeeeeeeeeeeeeeeeeeeeeeeeeeeeeeeeeeeeeeeeeeeeeeeeeeeeeeeeeeeeeeeeeeeee
+        eeeeeeeeeeeeeeeeeeeeeeeeeeeeeeeeeeeeeeeeeeeeeeeeeeeeeeeeeeeeeeeeeeeeeeeeeeeeeeeeeeeeeeeeeeeeeeeeeeeeeeeeeeeeeeeeeeeeeeeeeeeeeeeeeeeeeeeeeeeeeeeeeeeeeeeeeeeeeeee
+        eeeeeeeeeeeeeeeeeeeeeeeeeeeeeeeeeeeefffffffeeeeeeeeeeeeeeeeeeeeeeeeeeeeeeeeeeeeeeeeeeeeeeeeeeeeeeeeeeeeeeeeeeeeeeeeeeeeeeeeeeeeeeeeeeeeeeeeeeeeeeeeeeeeeeeeeeeee
+        eeeeeeeeeeeeeeeeeeeeeeeefffffffffffffddddddffeeeeeeeeeeeeeeeeeeeeeeeeeeeeeeeeeeeeeeeeeeeeeeeeeeeeeeeeeeeeeeeeeeeeeeeeeeeeeeeeeeeeeeeeeeeeeeeeeeeeeeeeeeeeeeeeeee
+        eeeeeeeeeeeeeeeeeeeeeefffdddddddddddddffddddfeeeeeeeeeeeeeeeeeeeeeeeeeeeeeeeeeeeeeeeeeeeeeeeeeeeeeeeeeeeeeeeeeeeeeeeeeeeeeeeeeeeeeeeeeeeeeeeeeeeeeeeeeeeeeeeeeee
+        eeeeeeeeeeeeeeeeeeeeeefffdddddddddddddffddddfeeeeeeeeeeeeeeeeeeeeeeeeeeeeeeeeeeeeeeeeeeeeeeeeeeeeeeeeeeeeeeeeeeeeeeeeeeeeeeeeeeeeeeeeeeeeeeeeeeeeeeeeeeeeeeeeeee
+        eeeeeeeeeeeeeeeeeeeeeffdddddddddffffdddffdddfeeeeeeeeeeeeeeeeeeeeeeeeeeeeeeeeeeeeeeeeeeeeeeeeeeeeeeeeeeeeeeeeeeeeeeeeeeeeeeeeeeeeeeeeeeeeeeeeeeeeeeeeeeeeeeeeeee
+        eeeeeeeeeeeeeeeeeeeeffdddfffddffffffdddddddffeeeeeeeeeeeeeeeeeeeeeeeeeeeeeeeeeeeeeeeeeeeeeeeeeeeeeeeeeeeeeeeeeeeeeeeeeeeeeeeeeeeeeeeeeeeeeeeeeeeeeeeeeeeeeeeeeee
+        eeeeeeeeeeeeeeeeeeeffdddfffffdfffffddddddbdfeeeeeeeeeeeeeeeeeeeeeeeeeeeeeeeeeeeeeeeeeeeeeeeeeeeeeeeeeeeeeeeeeeeeeeeeeeeeeeeeeeeeeeeeeeeeeeeeeeeeeeeeeeeeeeeeeeee
+        eeeeeeeeeeeeeeeeeeffdddffffffdddddddddbfdfdfeeeeeeeeeeeeeeeeeeeeeeeeeeeeeeeeeeeeeeeeeeeeeeeeeeeeeeeeeeeeeeeeeeeeeeeeeeeeeeeeeeeeeeeeeeeeeeeeeeeeeeeeeeeeeeeeeeee
+        eeeeeeeeeeeeeeeeeefddddfffffddddddddfdffdfdfeeeeeeeeeeeeeeeeeeeeeeeeeeeeeeeeeeeeeeeeeeeeeeeeeeeeeeeeeeeeeeeeeeeeeeeeeeeeeeeeeeeeeeeeeeeeeeeeeeeeeeeeeeeeeeeeeeee
+        eeeeeeeeeeeeeeeeeefdddddfffdddddfffdffffffffeeeeeeeeeeeeeeeeeeeeeeeeeeeeeeeeeeeeeeeeeeeeeeeeeeeeeeeeeeeeeeeeeeeeeeeeeeeeeeeeeeeeeeeeeeeeeeeeeeeeeeeeeeeeeeeeeeee
+        eeeeeeeeeeeeeeeeeefdddddddddfffffefffeeeeeeeeeeeeeeeeeeeeeeeeeeeeeeeeeeeeeeeeeeeeeeeeeeeeeeeeeeeeeeeeeeeeeeeeeeeeeeeeeeeeeeeeeeeeeeeeeeeeeeeeeeeeeeeeeeeeeeeeeee
+        eeeeeeeeeeeeeeeeeeffdddbbbbffeeeeeeeeeeeeeeeeeeeeeeeeeeeeeeeeeeeeeeeeeeeeeeeeeeeeeeeeeeeeeeeeeeeeeeeeeeeeeeeeeeeeeeeeeeeeeeeeeeeeeeeeeeeeeeeeeeeeeeeeeeeeeeeeeee
+        eeeeeeeeeeeeeeeefffffbddddbbfffffeeeeeeeeeeeeeeeeeeeeeeeeeeeeeeeeeeeeeeeeeeeeeeeeeeeeeeeeeeeeeeeeeeeeeeeeeeeeeeeeeeeeeeeeeeeeeeeeeeeeeeeeeeeeeeeeeeeeeeeeeeeeeee
+        eeeeeeeeeeeeeeeefdffefddddddddddffffffffffffeeeeeeeeeeeeeeeeeeeeeeeeeeeeeeeeeeeeeeeeeeeeeeeeeeeeeeeeeeeeeeeeeeeeeeeeeeeeeeeeeeeeeeeeeeeeeeeeeeeeeeeeeeeeeeeeeeee
+        eeeeeeeeeeeeeeeefddfffdddddddddddffddddfdfdfeeeeeeeeeeeeeeeeeeeeeeeeeeeeeeeeeeeeeeeeeeeeeeeeeeeeeeeeeeeeeeeeeeeeeeeeeeeeeeeeeeeeeeeeeeeeeeeeeeeeeeeeeeeeeeeeeeee
+        eeeeeeeeeeeeeefffbbdfffddddddddddddddddbdbdfeeeeeeeeeeeeeeeeeeeeeeeeeeeeeeeeeeeeeeeeeeeeeeeeeeeeeeeeeeeeeeeeeeeeeeeeeeeeeeeeeeeeeeeeeeeeeeeeeeeeeeeeeeeeeeeeeeee
+        eeeeeeeeeeeefffddfffffeffdddddddddddddddddffeeeeeeeeeeeeeeeeeeeeeeeeeeeeeeeeeeeeeeeeeeeeeeeeeeeeeeeeeeeeeeeeeeeeeeeeeeeeeeeeeeeeeeeeeeeeeeeeeeeeeeeeeeeeeeeeeeee
+        eeeeeeeeeeeefdbbdddfbfeeffffdddddddffffffffeeeeeeeeeeeeeeeeeeeeeeeeeeeeeeeeeeeeeeeeeeeeeeeeeeeeeeeeeeeeeeeeeeeeeeeeeeeeeeeeeeeeeeeeeeeeeeeeeeeeeeeeeeeeeeeeeeeee
+        eeeeeeeeeeeefddbbfffdfeeeeefffffffffeeeeeeeeeeeeeeeeeeeeeeeeeeeeeeeeeeeeeeeeeeeeeeeeeeeeeeeeeeeeeeeeeeeeeeeeeeeeeeeeeeeeeeeeeeeeeeeeeeeeeeeeeeeeeeeeeeeeeeeeeeee
+        eeeeeeeeeeffffdddfefdffeeeeeeeeeeeeeeeeeeeeeeeeeeeeeeeeeeeeeeeeeeeeeeeeeeeeeeeeeeeeeeeeeeeeeeeeeeeeeeeeeeeeeeeeeeeeeeeeeeeeeeeeeeeeeeeeeeeeeeeeeeeeeeeeeeeeeeeee
+        eeeeeeeeeefbbfffffffddffeeeefffffeeeeefffffeeeeeeeeeeeeeeeeeeeeeeeeeeeeeeeeeeeeeeeeeeeeeeeeeeeeeeeeeeeeeeeeeeeeeeeeeeeeeeeeeeeeeeeeeeeeeeeeeeeeeeeeeeeeeeeeeeeee
+        eeeeeeeeeeffbbbfffdbdddffffefdddbfffffbdddffeeeeeeeeeeeeeeeeeeeeeeeeeeeeeeeeeeeeeeeeeeeeeeeeeeeeeeeeeeeeeeeeeeeeeeeeeeeeeeeeeeeeeeeeeeeeeeeeeeeeeeeeeeeeeeeeeeee
+        eeeeeeeeeeefffffdfdbbdddddfefddddddddbbbbddfeeeeeeeeeeeeeeeeeeeeeeeeeeeeeeeeeeeeeeeeeeeeeeeeeeeeeeeeeeeeeeeeeeeeeeeeeeeeeeeeeeeeeeeeeeeeeeeeeeeeeeeeeeeeeeeeeeee
+        eeeeeeeeeeefffffdfdbbdddddfefddddddddbbbbddfeeeeeeeeeeeeeeeeeeeeeeeeeeeeeeeeeeeeeeeeeeeeeeeeeeeeeeeeeeeeeeeeeeeeeeeeeeeeeeeeeeeeeeeeeeeeeeeeeeeeeeeeeeeeeeeeeeee
+        eeeeeeeeeeffbbbfdbddbbbffffeffffffdddbddbfdfeeeeeeeeeeeeeeeeeeeeeeeeeeeeeeeeeeeeeeeeeeeeeeeeeeeeeeeeeffffeeeeeeeeeeeeeeeeeeeeeeeeeeeeeeeeeeeeeeeeeeeeeeeeeeeeeee
+        eeeeeeeeeefbbfffdbbdddffffffeeeeeffffbbbdfffeeeeeeeeeeeeeeeeeeeeeeeeeeeeeeeeeeeeeeeeeeeeeeeeeeeeeeeeefbdfeeeeeeeeeeeeeeeeeeeeeeeeeeeeeeeeeeeeeeeeeeeeeeeeeeeeeee
+        eeeeeeeeeefffffbddbbdddddddfeeeeeeeeffdbdfeeeeeeeeeeeeeeeeeeeeeeeeeeeeeeeeeeeeeeeeeeeeeeeeeeeeeeeeeeefddbffeeeeeeeeeeeeeeeeeeeeeeeeeeeeeeeeeeeeeeeeeeeeeeeeeeeee
+        eeeeeeeeeefbbfdbbddbbfffffffeeeeeeeffddfdfeeeeeeeeeeeeeeeeeeeeeeeeeeeeeeeeeeeeeeeeeeeeeeeeeeeeeeeeeeffddddfeeeeeeeeeeeeeeeeeeeeeeeeeeeeeeeeeeeeeeeeeeeeeeeeeeeee
+        eeeeeeeeeefbffdbbbdddddddfeeeeeeeeefddffffeeeeeeeeeeeeeeeeeeeeeeeeeeeeeeeeeeeeeeeeeeeeeeeeeeeeeeeeeffbdddbfeeeeeeeeeeeeeeeeeeeeeeeeeeeeeeeeeeeeeeeeeeeeeeeeeeeee
+        eeeeeeeeeeffffdddbbfffffffeeeeeeeeeffffffffffeeeeeeeeeeeeeeeeeeeeeeeeeeeeeeeeeeeeeeeeeeeeeeeeeeeeeffddfffffeeeeeeeeeeeeeeeeeeeeeeeeeeeeeeeeeeeeeeeeeeeeeeeeeeeee
+        eeeeeeeeeeffdffdddfeeeeeeeeeeeeeeeeeeeffdffdfeeeeeeeeeeeeeeeeeeeeeeeeeeeeeeeeeeeeeeeeeeeeeeeeeeefffddffeeeeeeeeeeeeeeeeeeeeeeeeeeeeeeeeeeeeeeeeeeeeeeeeeeeeeeeee
+        eeeeeeeeeffddffffffeeeeeeeeeeeeeeeeeeefddffdffeeeeeeeeeeeeeeeeeeeeeeeeeeeeeeeeeeeeeeeeeeeeeeeeefffddffeeeeeeeeeeeeeeeeeeeeeeeeeeeeeeeeeeeeeeeeeeeeeeeeeeeeeeeeee
+        eeeeeeeeefddbffffeeeeeeeeeeffffffffeeffddffdbfeeeeeeeeeeeeeeeeeeeeeeeeeeeeeeeeeeeeeeeeeeeeeeffffbbdffeeeeeeeeeeeeeeeeeeeeeeeeeeeeeeeeeeeeeeeeeeeeeeeeeeeeeeeeeee
+        eeeeeeeeeffbbfddfeeeeeeeeeefddbbbdffefddfffddfeeeeeeeeeeeeeeeeeeeeeeeeeeeeeeeeeeeeeeeeeeeeeefbddddffeeeeeeeeeeeeeeeeeeeeeeeeeeeeeeeeeeeeeeeeeeeeeeeeeeeeeeeeeeee
+        feeeeeeeeefdddbbffeeeeeeeeffddbbdddfefdffffbdfeeeeeeeeeeeeeeeeeeeeeeeeeeeeeeeeeeeefeeeeeeeeefdddddfeeeeeeeeeeeeeeeeeeeeeeeefeeeeeeeeeeeeeeeeeeeeeeeeeeeeeeeeeeee
+        eeeeeeeefefffbbddfeeeeeeeefddffffddfffffeffbffeeefeeeeeeeeeeeeeeeeeeefeeeeeeeeeeeeeeeeeeeefeffbdddfeeeeeeeeeeefeeeeeeeeeeeeeeeeeeeeefeeeeeeeeeeeeeeeeeefeeeeeeee
+        efffffeeeeeefdddbffeeffffffddfeeffddfffeefdbfffeeeeeeeeeeefeeefffffeeeeeeeefeeeeeeefffffeeeeeefdbbfefeeeffffeeeeeeeefeeeeeeefffffeeeeeefffffefeeeffffeeeeeeeefee
+        fffeffffeeeefdfbbdfffffffbddffffeffdffeeffddfffffeeeeffeeeeefffffffffeeffeeeeefeeffffeffffeeeefffffeeeffffffffeeffeeeeefeeffffefffffeeefbdbfeeeffffffffeeffeeeee
+        fffffffffeeefffbdbffddddffbdffffeefffeefffbdffffffeeeffeeeeffeffffffffeffeeeeeeefffffffffffeeeffeeeeeffefffffffeffeeeeeeefffffffffffffffdddfeeffefffffffeffeeeee
+        efffffffffeeeefddffbdffddfbbfeeeeeeeeefffdbbfffffffeeeeeeefffffffffffffeeeeeeeeffeefffffffffeeeeeeeeffffffffffffeeeeeeeeffeeffffffffffbdddbffffffffffffffeeeeeee
+        efffffffffffeefffffddfffdeffffffeeeeffffbddffffffffffeeefffffffffffeeffffeeeeffffeefffffffffffeeeeffffffffffeeffffeeeeffffeeffffffffffddddddbffffffffeeffffeeeef
+        fffffffffffffffffffdddffdddffffffffffffdbbdfffffffffffffffffffbddbfeefffffffffffffffffffffffffffffffffffffffeeffffffffffffffffffffffffbddbddddbfffffffefffffffff
+        fffffffffffffffffffdddffdddffffffffffffdbbdfffffffffffffffffffbddbfeefffffffffffffffffffffffffffffffffffffffeeffffffffffffffffffffffffbddbddddbfffffffefffffffff
+        ffffffffeeffffffeefffddddddfffffffffdbddfffffffffeeffffffeefffddddfffffeffffffefffffffffffeefffffffeefffffffffffeffffffeffffffffffffeffffffbddddbbddbffffeffffff
+        ffffffffeeffffffeefffddddddfffdddbbddbdffffffffffeeffffffeefffbddddbffffffeeffffffffffffffeefffffffeeffffffffffffffeefffffffffffffffeefffffffbdddddddfffffffeeff
+        ffffffffffffefffffffffdddddffdddfbddfffffffffffffffffeffffffbdddddddffffffeeffffffffffffffffffeffffffffffffffffffffeefffffffffffffffffffefffffffdddddfffffffeeff
+        fffffffffffffffffffffffdddffffffffffffffffffffffffffffffffbddddbbddbffffffffffffffffffffffffffffffffffffffffffffffffffffffffffffffffffffffffffffdddbffffffffffff
+        ffffffffffffffffffffffffffffffffffffffffffffffffffffbddbbddddbffffffffffffffffffffffffffffffffffffffffffffffffffffffffffffffffffffffffffffffffffbddfffffffffffff
+        ffffffffffffffffffffffffffffffffffffffffffffffffffffdddddddbffffffffffffffffffffffffffffffffffffffffffffffffffffffffffffffffffffffffffffffffffffffffffffffffffff
+        ffffffffffffffffffffffffffffffffffffffffffffffffffffdddddfffffffffffffffffffffffffffffffffffffffffffffffffffffffffffffffffffffffffffffffffffffffffffffffffffffff
+        fffffffffffffffffffffffffffffffffffffffffffffffffffffbdddfffffffffffffffffffffffffffffffffffffffffffffffffffffffffffffffffffffffffffffffffffffffffffffffffffffff
+        ffffffffffffffffffffffffffffffffffffffffffffffffffffffddbfffffffffffffffffffffffffffffffffffffffffffffffffffffffffffffffffffffffffffffffffffffffffffffffffffffff
+        ffffffffffffffffffffffffffffffffffffffffffffffffffffffffffffffffffffffffffffffffffffffffffffffffffffffffffffffffffffffffffffffffffffffffffffffffffffffffffffffff
+        ffffffffffffffffffffffffffffffffffffffffffffffffffffffffffffffffffffffffffffffffffffffffffffffffffffffffffffffffffffffffffffffffffffffffffffffffffffffffffffffff
+        ffffffffffffffffffffffffffffffffffffffffffffffffffffffffffffffffffffffffffffffffffffffffffffffffffffffffffffffffffffffffffffffffffffffffffffffffffffffffffffffff
+        ffffffffffffffffffffffffffffffffffffffffffffffffffffffffffffffffffffffffffffffffffffffffffffffffffffffffffffffffffffffffffffffffffffffffffffffffffffffffffffffff
+        ffffffffffffffffffffffffffffffffffffffffffffffffffffffffffffffffffffffffffffffffffffffffffffffffffffffffffffffffffffffffffffffffffffffffffffffffffffffffffffffff
+        ffffffffffffffffffffffffffffffffffffffffffffffffffffffffffffffffffffffffffffffffffffffffffffffffffffffffffffffffffffffffffffffffffffffffffffffffffffffffffffffff
+        ffffffffffffffffffffffffffffffffffffffffffffffffffffffffffffffffffffffffffffffffffffffffffffffffffffffffffffffffffffffffffffffffffffffffffffffffffffffffffffffff
+        ffffffffffffffffffffffffffffffffffffffffffffffffffffffffffffffffffffffffffffffffffffffffffffffffffffffffffffffffffffffffffffffffffffffffffffffffffffffffffffffff
+        ffffffffffffffffffffffffffffffffffffffffffffffffffffffffffffffffffffffffffffffffffffffffffffffffffffffffffffffffffffffffffffffffffffffffffffffffffffffffffffffff
+`)
+let NewSprite = sprites.create(assets.image`
+    Hero
+`, SpriteKind.Player)
 NewSprite.x = randint(10, 150)
 controller.moveSprite(NewSprite)
 NewSprite.setStayInScreen(true)
-let EvilPerson1 = sprites.create(assets.image`EvilPerson`, SpriteKind.Enemy)
-let EvilPerson2 = sprites.create(assets.image`EvilPerson`, SpriteKind.Enemy)
-let NewFood = sprites.create(assets.image`Burger`, SpriteKind.Food)
-let New_Food2 = sprites.create(assets.image`Burger`, SpriteKind.Food)
-NewFood.x = 0
-NewFood.y = 0
-New_Food2.x = 0
-New_Food2.y = 0
+let EvilPerson1 = sprites.create(assets.image`
+    EvilPerson
+`, SpriteKind.Enemy)
+let EvilPerson2 = sprites.create(assets.image`
+    EvilPerson
+`, SpriteKind.Enemy)
+let NewFood = sprites.create(assets.image`
+    Burger
+`, SpriteKind.Food)
+let New_Food2 = sprites.create(assets.image`
+    Burger
+`, SpriteKind.Food)
+NewFood.x = randint(10, 100)
+NewFood.y = randint(10, 120)
+New_Food2.x = randint(10, 100)
+New_Food2.y = randint(10, 120)
 info.setScore(0)
 info.startCountdown(25)
-EvilPerson1.x = randint(1, 1)
+EvilPerson1.x = randint(10, 120)
 EvilPerson1.y = randint(1, 1)
-EvilPerson2.x = randint(80, 80)
-EvilPerson2.y = randint(80, 80)
+EvilPerson2.x = randint(10, 120)
+EvilPerson2.y = randint(1, 1)
 EvilPerson1.follow(NewSprite, 80)
-EvilPerson2.follow(NewSprite, 80)
+EvilPerson2.follow(NewSprite, 60)

diff --git a/main.py b/main.py
@@ -3,11 +3,11 @@ def on_on_overlap(sprite2, otherSprite2):
 sprites.on_overlap(SpriteKind.enemy, SpriteKind.player, on_on_overlap)
 
 def on_countdown_end():
-    game.game_over(False)
+    game.game_over(True)
 info.on_countdown_end(on_countdown_end)
 
 def on_on_overlap2(sprite22, otherSprite22):
-    info.change_countdown_by(-10)
+    info.change_countdown_by(-5)
     sprites.destroy(otherSprite22)
     sprite22.say_text("Got it!")
 sprites.on_overlap(SpriteKind.player, SpriteKind.food, on_on_overlap2)
@@ -133,15 +133,15 @@ NewFood = sprites.create(assets.image("""
 New_Food2 = sprites.create(assets.image("""
     Burger
 """), SpriteKind.food)
-NewFood.x = randint(10, 150)
-NewFood.y = randint(10, 150)
-New_Food2.x = randint(10, 150)
-New_Food2.y = randint(10, 150)
+NewFood.x = randint(10, 100)
+NewFood.y = randint(10, 120)
+New_Food2.x = randint(10, 100)
+New_Food2.y = randint(10, 120)
 info.set_score(0)
 info.start_countdown(25)
-EvilPerson1.x = randint(1, 1)
+EvilPerson1.x = randint(10, 120)
 EvilPerson1.y = randint(1, 1)
-EvilPerson2.x = randint(80, 80)
-EvilPerson2.y = randint(80, 80)
+EvilPerson2.x = randint(10, 120)
+EvilPerson2.y = randint(1, 1)
 EvilPerson1.follow(NewSprite, 80)
-EvilPerson2.follow(NewSprite, 80)
+EvilPerson2.follow(NewSprite, 60)
